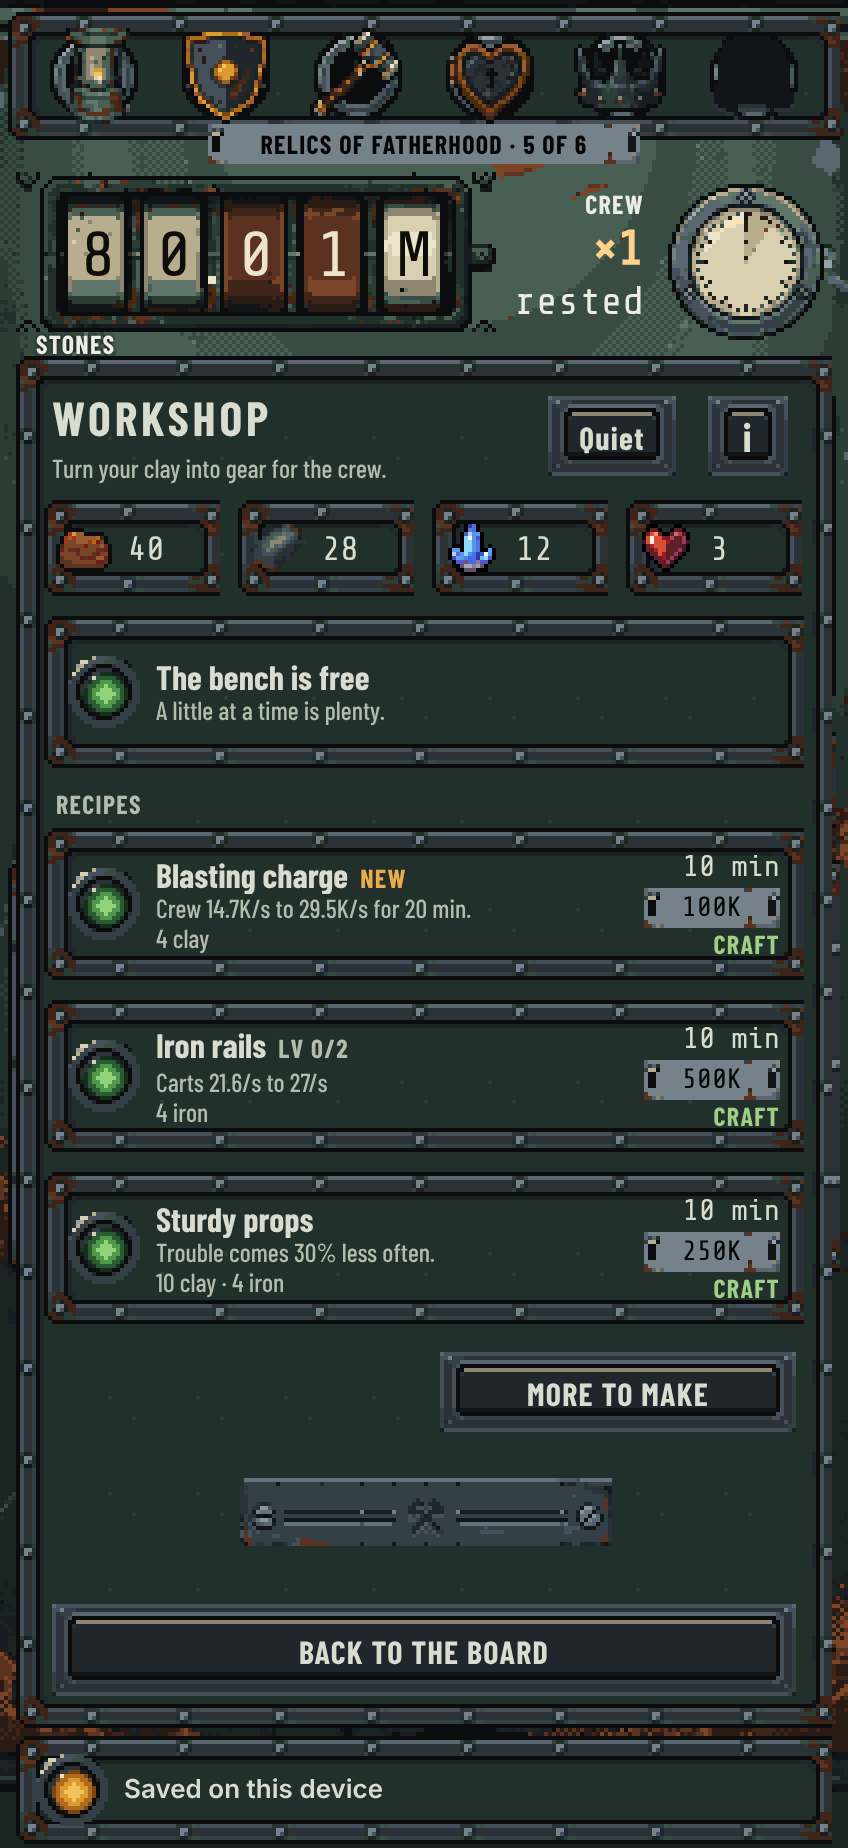
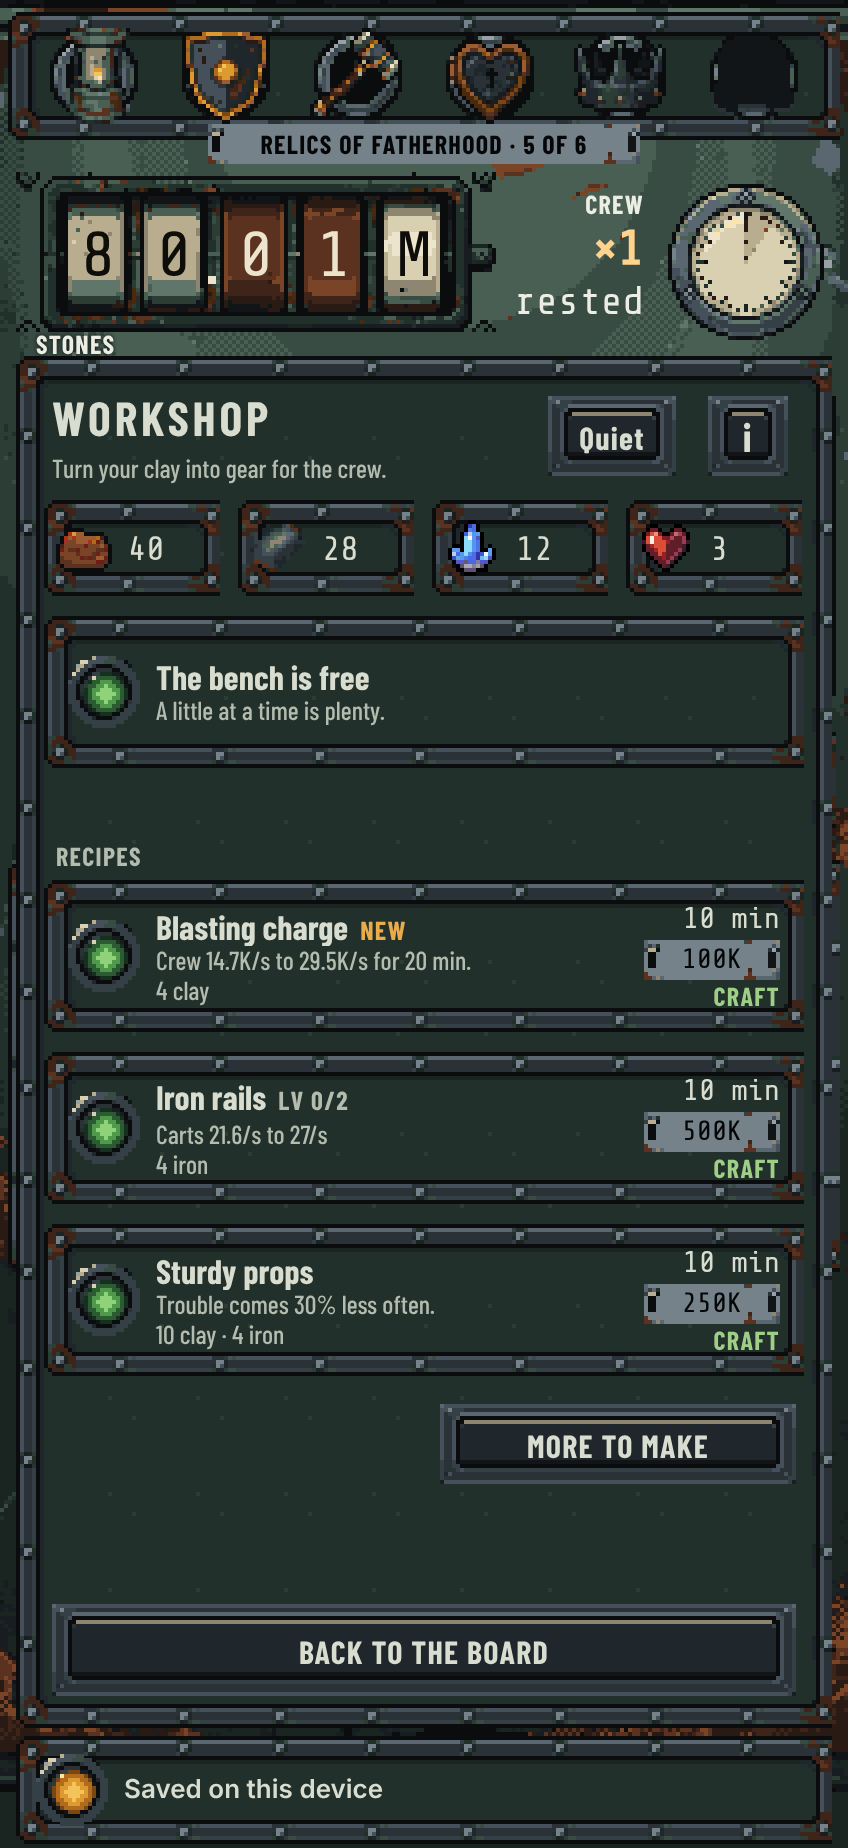
The audit shoots the Workshop's Sketch page in place of a second copy of page two, and its free-bench shots show the timers line's kept room (#374)
Claude-Session: https://claude.ai/code/session_011RgeWsS7EcGfk9opPt3V2W

Changed region(s): [[0.0307, 0.4318, 0.9505, 0.8636]]

diff --git a/docs/ui-audit.md b/docs/ui-audit.md
@@ -28,11 +28,11 @@ Bars used below:
 | Buys "i"                 | [shot](ui-audit/buys-how-424x924.png)               | The Staffing and the Layers cards in the drawer's place, with board art at 2× and one `Back to Buys`. No scroll.                                                                                                                                                                                                                                                                                                                                                                                                                                                                                                                                                                                                                                                                                                                                                  |
 | Buys on Max              | [shot](ui-audit/buys-max-424x924.png)               | The `short` save with the amount key pressed twice: the key in the head, left of the "i", reads `Max`. Each row shows its real count and total: the worker row `Hire N` over the total for every hand the pocket holds, a machine row the count it can pay for (`Buy 46`) and its worker bill for all of them (`Needs 46 workers`). A row the pocket cannot pay for one of shows one's price, dimmed. No scroll.                                                                                                                                                                                                                                                                                                                                                                                                                                                  |
 | Upgrades drawer          | [shot](ui-audit/upgrades-drawer-424x924.png)        | The `tools` save. Strong arms with its `Lv 2/10` badge, Better boots `Owned`, and the found pick and lamp `Found` under Brought home, past the fold: a full Upgrades scrolls inside the drawer (C1).                                                                                                                                                                                                                                                                                                                                                                                                                                                                                                                                                                                                                                                              |
-| Workshop, bench idle     | [shot](ui-audit/workshop-idle-424x924.png)          | The Workshop key's drawer (#374), on the first visit, so the kick is the teach intro. The head holds the title, the sound key (`Quiet`) and the "i". Four material plates, packed: icon and count, the word only in the label. The bench row reads `The bench is free` with a green lamp. Under `Recipes`, three 76px rows with no icon: real prices on the tag (`500K`), the craft time, the materials on the third line, and `Craft`; `Blasting charge` is flagged `New`. `More to make` sits in its own column under them, and the strip fills the rest. Every control is 48px; the list does not scroll.                                                                                                                                                                                                                                                      |
+| Workshop, bench idle     | [shot](ui-audit/workshop-idle-424x924.png)          | The Workshop key's drawer (#374), on the first visit, so the kick is the teach intro. The head holds the title, the sound key (`Quiet`) and the "i". Four material plates, packed: icon and count, the word only in the label. The bench row reads `The bench is free` with a green lamp. Under it, the timers line keeps its room with no timer, so no row moves when one starts or ends. Under `Recipes`, three 76px rows with no icon: real prices on the tag (`500K`), the craft time, the materials on the third line, and `Craft`; `Blasting charge` is flagged `New`. `More to make` sits in its own column under them, and the strip fills the rest. Every control is 48px; the list does not scroll.                                                                                                                                                     |
 | Workshop, crafting       | [shot](ui-audit/workshop-crafting-424x924.png)      | The bench row names the craft, the refund (`Cancel · 250K stones, 10 clay, and 4 iron back`), a real clock (`8:59`), an amber lamp and the bar at its foot. The live timers line sits under it (`Axle grease · 11:59 left`). The recipe on the bench reads `On the bench`; the others read `Bench busy` with a dim tag. The kick is `One bench. Crafts finish while you are away`.                                                                                                                                                                                                                                                                                                                                                                                                                                                                                |
 | Workshop, cancel confirm | [shot](ui-audit/workshop-cancel-424x924.png)        | One tap on the bench row arms the cancel: its third line reads `Tap again to cancel`. Same row, no separate button or sheet; nothing moves.                                                                                                                                                                                                                                                                                                                                                                                                                                                                                                                                                                                                                                                                                                                       |
 | Workshop, reinforce      | [shot](ui-audit/workshop-reinforce-424x924.png)     | Page two (`Earlier` and `More to make` side by side). `Reinforce Lv 0/5` shows the real machine rates and `5 iron`, with no stone tag because its stone price is 0.                                                                                                                                                                                                                                                                                                                                                                                                                                                                                                                                                                                                                                                                                               |
-| Workshop, axle grease    | [shot](ui-audit/workshop-axle-grease-424x924.png)   | The same page two: `Axle grease` shows real crew rates and `1 iron`. No `Craft` sits in the top third now: the first row's `Craft` is at about 472px of 924, under the plates and the bench.                                                                                                                                                                                                                                                                                                                                                                                                                                                                                                                                                                                                                                                                      |
+| Workshop, sketch         | [shot](ui-audit/workshop-sketch-424x924.png)        | A save that has not found the lamp or the kit: page two leads with the one dark `Sketch` row and today's hint (`A folded sketch, still in the dark.`), no numbers, over `Reinforce` and `Axle grease`. The first row's `Craft` sits at about 572px of 924, under the plates, the bench and the timers line's kept room.                                                                                                                                                                                                                                                                                                                                                                                                                                                                                                                                           |
 | Workshop, need more      | [shot](ui-audit/workshop-need-more-424x924.png)     | No iron in the pocket (the iron plate reads `0`). Page two's rows read `Need 5 more iron`, `Need 1 more iron` and `Need 4 more iron` in rust on `.workshop-recipe.is-short` rows, with dark lamps and a quiet `Craft`.                                                                                                                                                                                                                                                                                                                                                                                                                                                                                                                                                                                                                                            |
 | Craft done               | [shot](ui-audit/workshop-craft-done-424x924.png)    | Notice names the fit and a real rate. One button. Unchanged until B7.                                                                                                                                                                                                                                                                                                                                                                                                                                                                                                                                                                                                                                                                                                                                                                                             |
 | Engineers, promote       | [shot](ui-audit/engineers-promote-424x924.png)      | Price is real (`Promote: 2M stones`). Title, why and rank word are 12px. A large empty band sits between Ada and the promote row.                                                                                                                                                                                                                                                                                                                                                                                                                                                                                                                                                                                                                                                                                                                                 |
